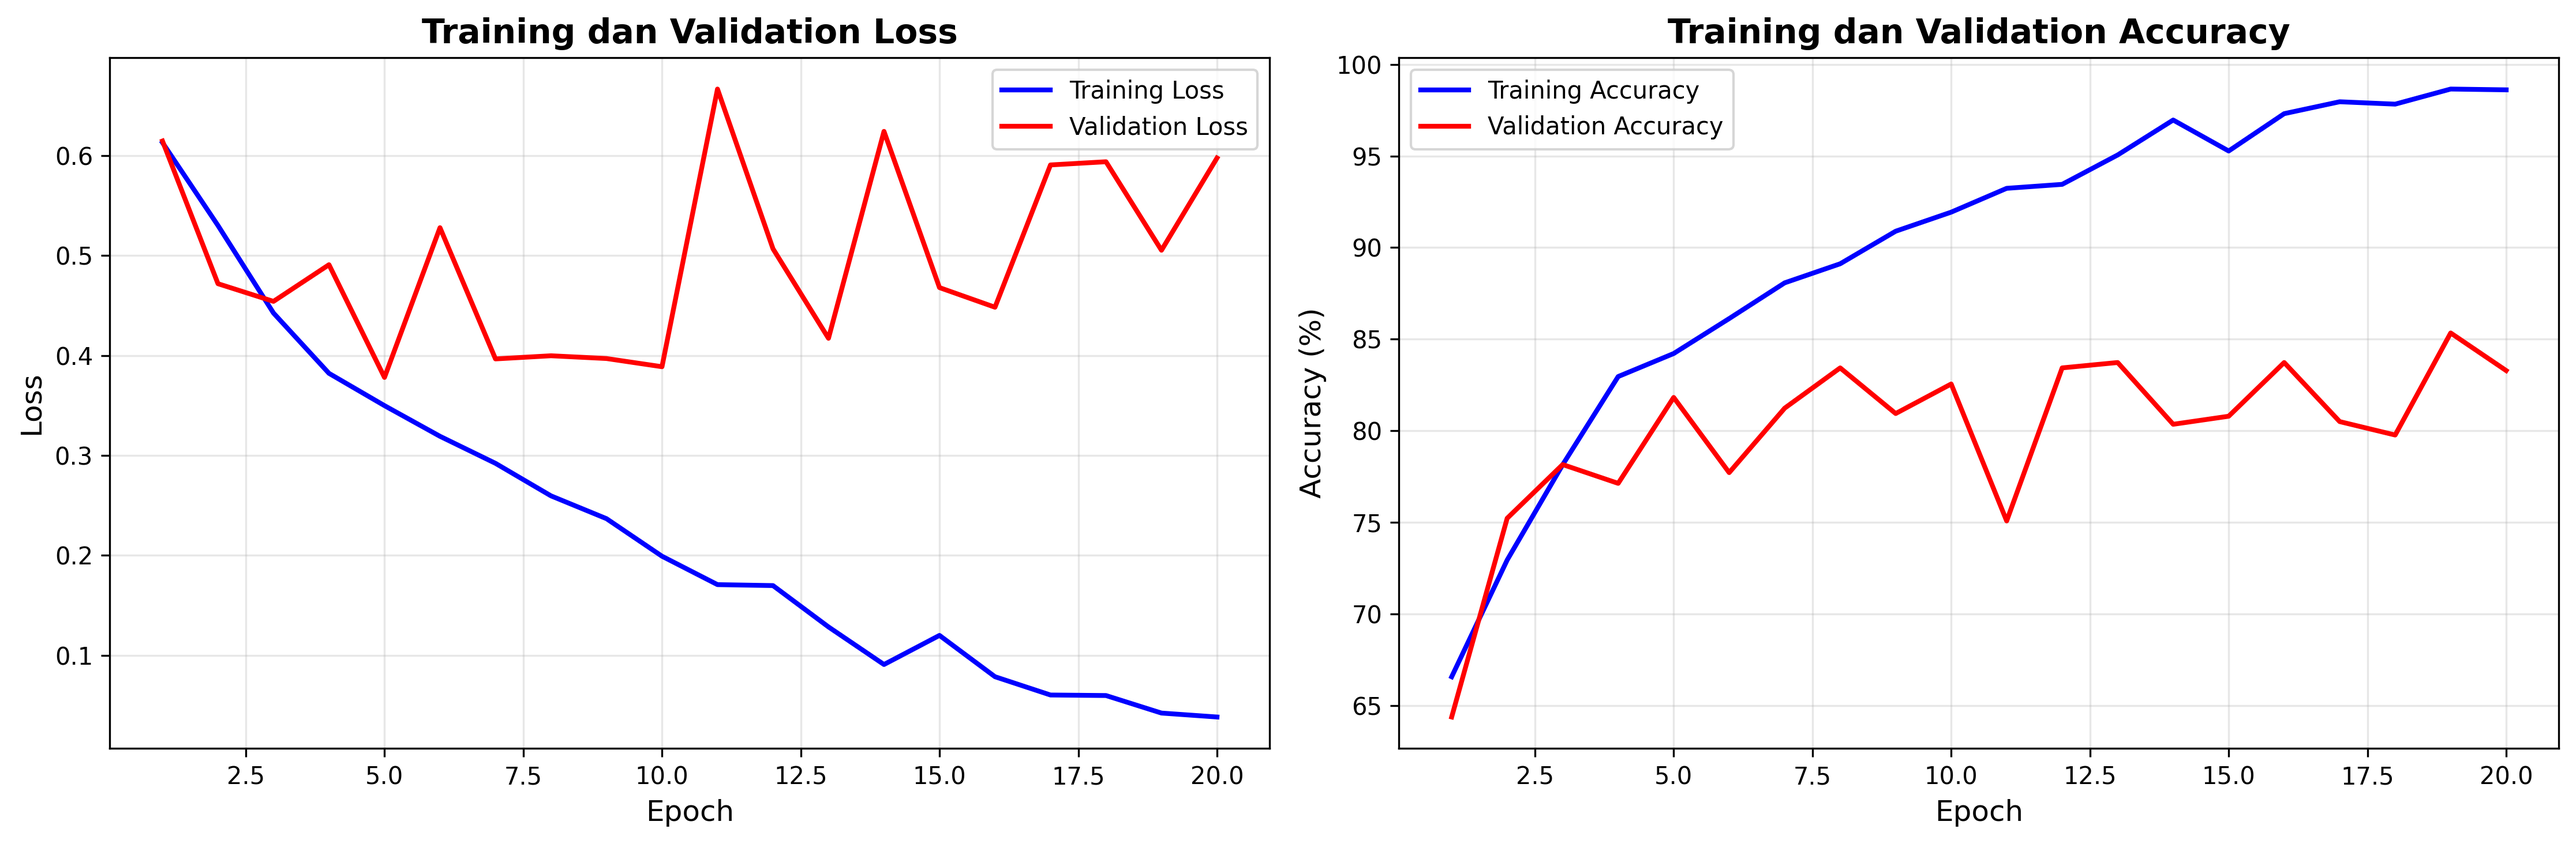
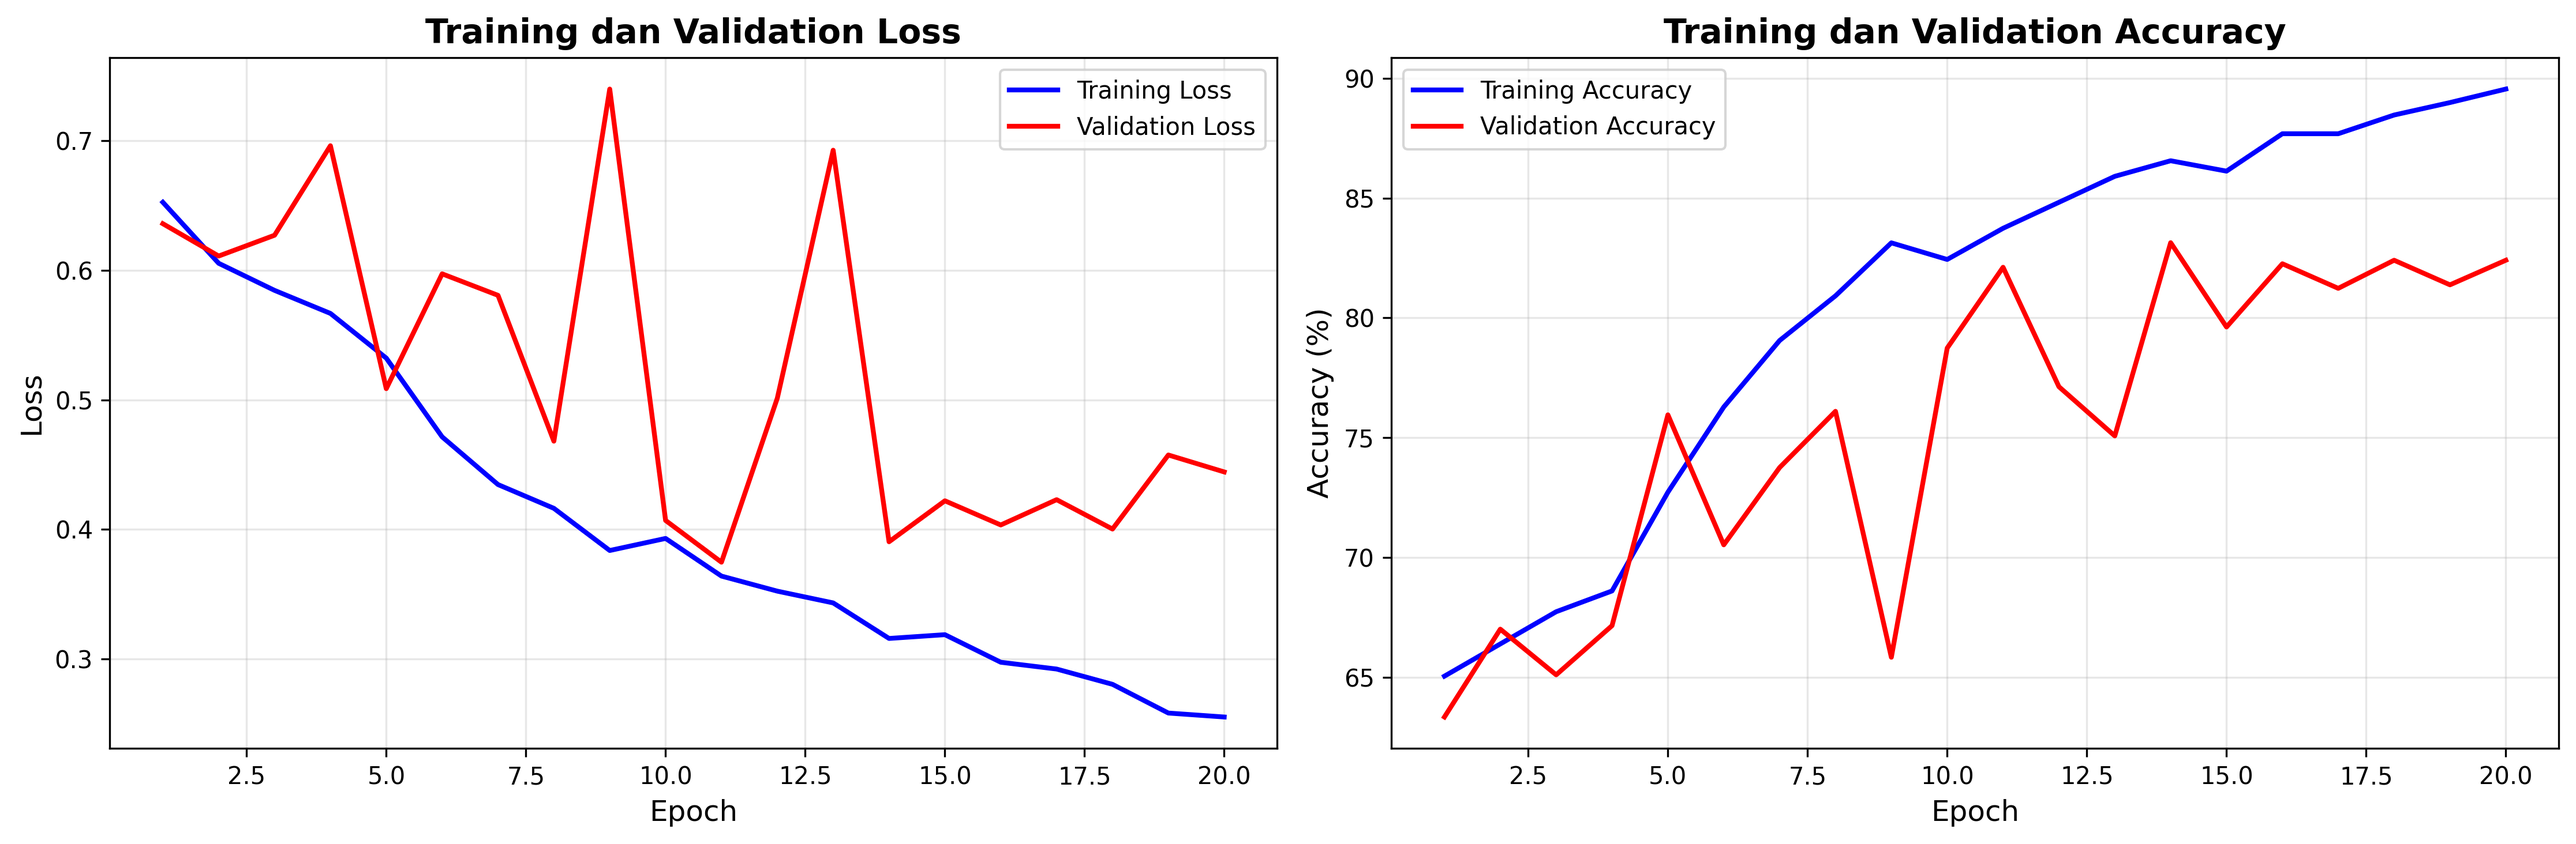
update

diff --git a/train_densenet.py b/train_densenet.py
@@ -1,0 +1,206 @@
+import torch
+import torch.nn as nn
+import torch.optim as optim
+from datareader import get_data_loaders, NEW_CLASS_NAMES
+from densenet_model import DenseNet121
+import matplotlib.pyplot as plt
+from utils import plot_training_history, visualize_random_val_predictions
+from tqdm import tqdm
+
+# --- Hyperparameter Optimized untuk DenseNet121 - Target 92%+ ---
+EPOCHS = 20  # Lebih banyak epochs dengan freeze/unfreeze strategy
+BATCH_SIZE = 12  # Batch size optimal untuk GPU RTX 3050 + 224x224
+LEARNING_RATE = 0.001  # Learning rate awal
+WEIGHT_DECAY = 5e-5  # L2 regularization
+PATIENCE = 15  # Early stopping patience lebih panjang
+LABEL_SMOOTHING = 0.1  # Label smoothing
+USE_FOCAL_LOSS = False  # Default to BCE loss since we'll implement class weights
+
+# Class untuk Weighted BCE Loss
+class WeightedBCEWithLogitsLoss(nn.Module):
+    def __init__(self, pos_weight):
+        super().__init__()
+        self.loss = nn.BCEWithLogitsLoss(pos_weight=pos_weight)
+
+    def forward(self, outputs, targets):
+        return self.loss(outputs, targets)
+
+def train():
+    # Setup device (GPU jika tersedia, jika tidak gunakan CPU)
+    device = torch.device('cuda' if torch.cuda.is_available() else 'cpu')
+    print(f"\n{'='*50}")
+    print(f"Device yang digunakan: {device}")
+    if torch.cuda.is_available():
+        print(f"GPU: {torch.cuda.get_device_name(0)}")
+        print(f"CUDA Version: {torch.version.cuda}")
+    print(f"{'='*50}\n")
+    
+    # 1. Memuat Data
+    train_loader, val_loader, num_classes, in_channels = get_data_loaders(BATCH_SIZE)
+    
+    # 2. Inisialisasi Model DenseNet121 dan pindahkan ke GPU
+    print("Initializing DenseNet121...")
+    model = DenseNet121(in_channels=in_channels, num_classes=num_classes).to(device)
+    
+    total_params = sum(p.numel() for p in model.parameters())
+    trainable_params = sum(p.numel() for p in model.parameters() if p.requires_grad)
+    print(f"Total parameters: {total_params:,}")
+    print(f"Trainable parameters: {trainable_params:,}")
+    
+    # 3. Mendefinisikan Loss Function dan Optimizer
+    # Calculate class weights untuk handling imbalance
+    pos_weight = torch.tensor([2.0]).to(device)  # Assuming 1:2 class imbalance
+    criterion = WeightedBCEWithLogitsLoss(pos_weight=pos_weight)
+    
+    # Menggunakan AdamW (Adam with weight decay) untuk better generalization
+    optimizer = optim.AdamW(model.parameters(), lr=LEARNING_RATE, weight_decay=WEIGHT_DECAY)
+    
+    # Learning Rate Scheduler - CosineAnnealingWarmRestarts untuk better convergence
+    scheduler = optim.lr_scheduler.CosineAnnealingWarmRestarts(
+        optimizer, T_0=10, T_mult=2, eta_min=1e-7
+    )
+    
+    # Gradient clipping untuk stabilitas
+    max_grad_norm = 1.0
+    
+    # Inisialisasi list untuk menyimpan history
+    train_losses_history = []
+    val_losses_history = []
+    train_accs_history = []
+    val_accs_history = []
+    
+    # Early stopping
+    best_val_loss = float('inf')
+    best_val_acc = 0.0
+    patience_counter = 0
+    best_model_state = None
+    
+    print("\n--- Memulai Training ---")
+    
+    # 4. Training Loop
+    for epoch in range(EPOCHS):
+        model.train()
+        running_loss = 0.0
+        train_correct = 0
+        train_total = 0
+        
+        # Progress bar untuk training
+        train_pbar = tqdm(train_loader, desc=f'Epoch {epoch+1}/{EPOCHS} [Train]')
+        for images, labels in train_pbar:
+            # Pindahkan data ke GPU
+            images = images.to(device)
+            labels = labels.float().to(device)
+            
+            # Apply label smoothing manually
+            labels_smooth = labels * (1 - LABEL_SMOOTHING) + 0.5 * LABEL_SMOOTHING
+            
+            outputs = model(images)
+            loss = criterion(outputs, labels_smooth)
+            
+            optimizer.zero_grad()
+            loss.backward()
+            
+            # Gradient clipping untuk stabilitas
+            torch.nn.utils.clip_grad_norm_(model.parameters(), max_grad_norm)
+            
+            optimizer.step()
+            
+            running_loss += loss.item()
+            
+            # Hitung training accuracy (tetap pakai label asli, bukan smoothed)
+            predicted = (outputs > 0).float()
+            train_total += labels.size(0)
+            train_correct += (predicted == labels).sum().item()
+            
+            # Update progress bar
+            current_acc = 100 * train_correct / train_total
+            train_pbar.set_postfix({'loss': f'{loss.item():.4f}', 'acc': f'{current_acc:.2f}%'})
+        
+        avg_train_loss = running_loss / len(train_loader)
+        train_accuracy = 100 * train_correct / train_total
+        
+        # --- Fase Validasi ---
+        model.eval()
+        val_correct = 0
+        val_total = 0
+        val_running_loss = 0.0
+        
+        # Progress bar untuk validation
+        val_pbar = tqdm(val_loader, desc=f'Epoch {epoch+1}/{EPOCHS} [Val]')
+        with torch.no_grad():
+            for images, labels in val_pbar:
+                images = images.to(device)
+                labels = labels.float().to(device)
+                
+                outputs = model(images)
+                val_loss = criterion(outputs, labels)
+                val_running_loss += val_loss.item()
+                
+                predicted = (outputs > 0).float()
+                val_total += labels.size(0)
+                val_correct += (predicted == labels).sum().item()
+                
+                # Update progress bar
+                current_val_acc = 100 * val_correct / val_total
+                val_pbar.set_postfix({'loss': f'{val_loss.item():.4f}', 'acc': f'{current_val_acc:.2f}%'})
+        
+        avg_val_loss = val_running_loss / len(val_loader)
+        val_accuracy = 100 * val_correct / val_total
+        
+        # Update learning rate scheduler
+        scheduler.step()
+        current_lr = optimizer.param_groups[0]['lr']
+        
+        # Simpan history
+        train_losses_history.append(avg_train_loss)
+        val_losses_history.append(avg_val_loss)
+        train_accs_history.append(train_accuracy)
+        val_accs_history.append(val_accuracy)
+        
+        # Cek jika model terbaik
+        if val_accuracy > best_val_acc:
+            best_val_acc = val_accuracy
+            best_val_loss = avg_val_loss
+            best_model_state = model.state_dict().copy()
+            patience_counter = 0
+            print(f"Epoch [{epoch+1}/{EPOCHS}] | "
+                  f"Train Loss: {avg_train_loss:.4f} | Train Acc: {train_accuracy:.2f}% | "
+                  f"Val Loss: {avg_val_loss:.4f} | Val Acc: {val_accuracy:.2f}% | LR: {current_lr:.2e} ⭐ BEST!")
+        else:
+            patience_counter += 1
+            print(f"Epoch [{epoch+1}/{EPOCHS}] | "
+                  f"Train Loss: {avg_train_loss:.4f} | Train Acc: {train_accuracy:.2f}% | "
+                  f"Val Loss: {avg_val_loss:.4f} | Val Acc: {val_accuracy:.2f}% | LR: {current_lr:.2e}")
+        
+        # Early stopping
+        if patience_counter >= PATIENCE:
+            print(f"\n⚠ Early stopping triggered after {epoch+1} epochs")
+            print(f"Best validation accuracy: {best_val_acc:.2f}%")
+            break
+    
+    # Load best model
+    if best_model_state is not None:
+        model.load_state_dict(best_model_state)
+        print(f"\n✅ Loaded best model with validation accuracy: {best_val_acc:.2f}%")
+    
+    # Simpan model
+    torch.save({
+        'epoch': epoch + 1,
+        'model_state_dict': model.state_dict(),
+        'optimizer_state_dict': optimizer.state_dict(),
+        'best_val_acc': best_val_acc,
+        'best_val_loss': best_val_loss,
+    }, 'best_model_densenet121.pth')
+    print("Model terbaik disimpan sebagai 'best_model_densenet121.pth'")
+
+    print("--- Training Selesai ---")
+    
+    # Tampilkan plot
+    plot_training_history(train_losses_history, val_losses_history, 
+                         train_accs_history, val_accs_history)
+
+    # Visualisasi prediksi pada 10 gambar random dari validation set
+    visualize_random_val_predictions(model, val_loader, num_classes, count=10, device=device)
+
+if __name__ == '__main__':
+    train()

diff --git a/train.py b/train.py
@@ -4,14 +4,14 @@ import torch
 import torch.nn as nn
 import torch.optim as optim
 from datareader import get_data_loaders, NEW_CLASS_NAMES
-from resnet_model import ResNet
+from densenet_model import DenseNet121
 import matplotlib.pyplot as plt
 from utils import plot_training_history, visualize_random_val_predictions
 
 # --- Hyperparameter ---
 EPOCHS = 20
 BATCH_SIZE = 10
-LEARNING_RATE = 0.0003
+LEARNING_RATE = 0.001
 
 #Menampilkan plot riwayat training dan validasi setelah training selesai.
 
@@ -20,8 +20,8 @@ def train():
     train_loader, val_loader, num_classes, in_channels = get_data_loaders(BATCH_SIZE)
     
     # 2. Inisialisasi Model
-    model = ResNet(in_channels=in_channels, num_classes=num_classes)
-    print("\nMenggunakan model: ResNet")
+    model = DenseNet121(in_channels=in_channels, num_classes=num_classes)
+    print("\nMenggunakan model: DenseNet121")
     print(model)
     
     # 3. Mendefinisikan Loss Function dan Optimizer
